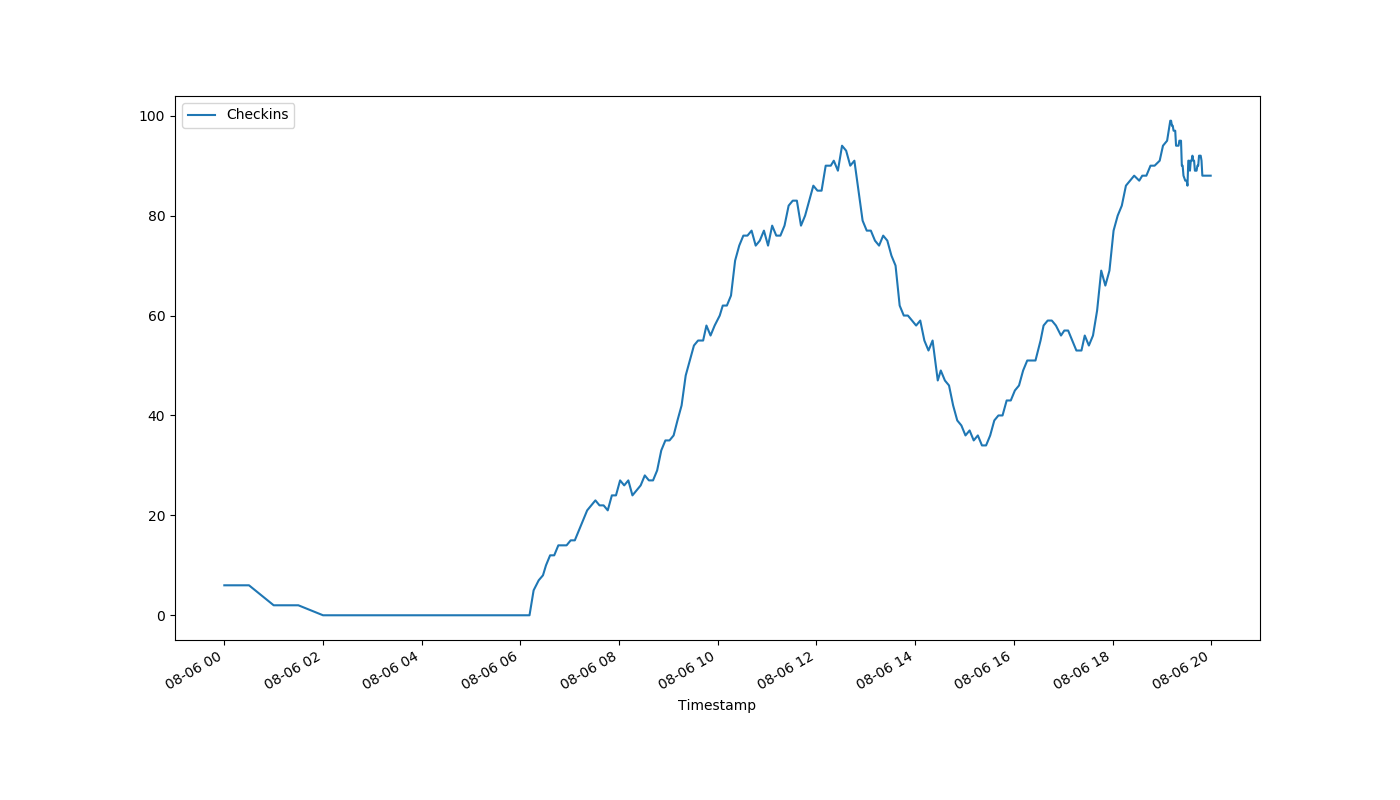
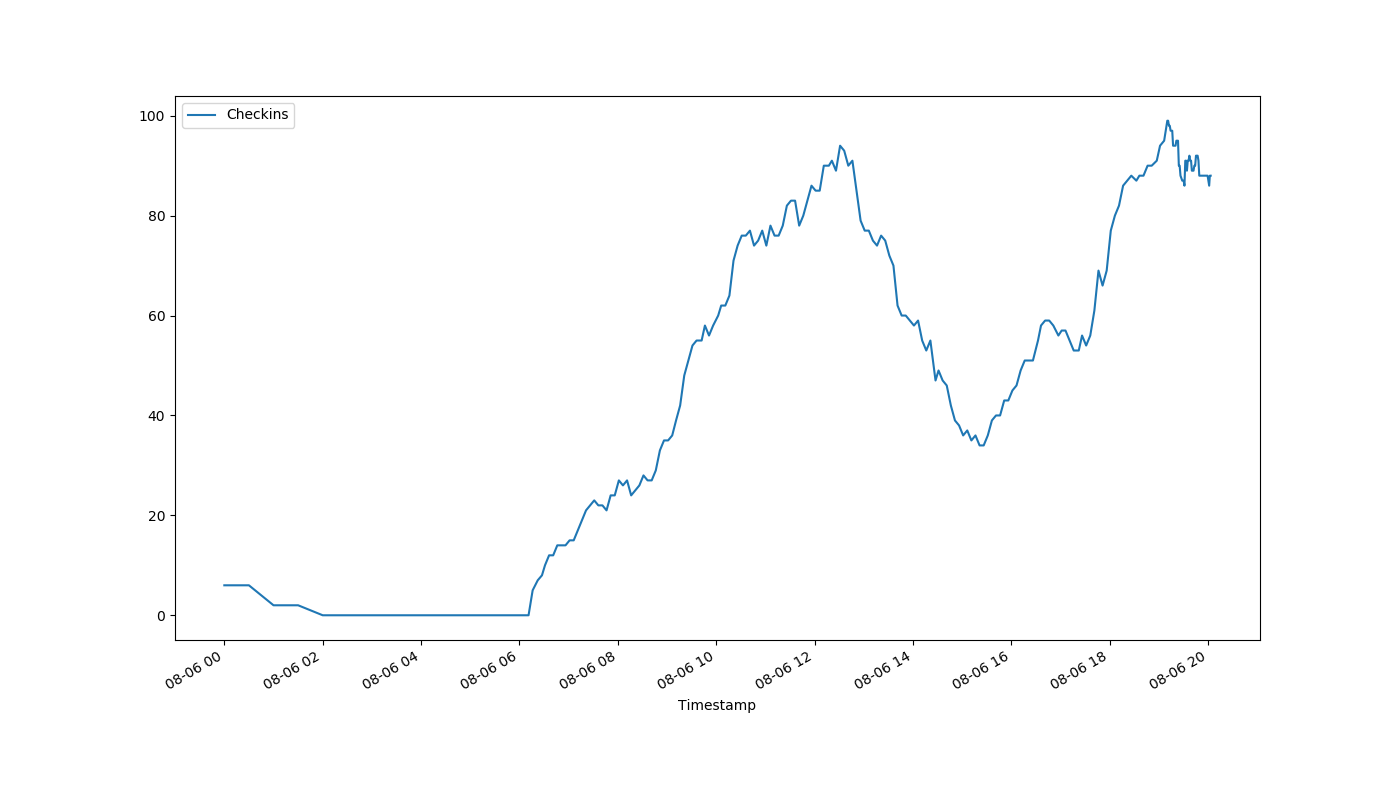
auto-Aug-06-20:03:18

diff --git a/index.html b/index.html
@@ -1,1 +1,1 @@
-<!DOCTYPE html><html><head><meta http-equiv="refresh" content="15"><link rel='stylesheet' href='holmcurrent.css'></head><body><p id='count'>-1</p><div id='graph-wrap'><img id='graph' src='holmgraph-Aug-06.png'></div><p id='updated'>Last updated 20:01:11 / 20:00:01</p></body></html>
+<!DOCTYPE html><html><head><meta http-equiv="refresh" content="15"><link rel='stylesheet' href='holmcurrent.css'></head><body><p id='count'>88</p><div id='graph-wrap'><img id='graph' src='holmgraph-Aug-06.png'></div><p id='updated'>Last updated 20:03:12 / 20:03:04</p></body></html>
